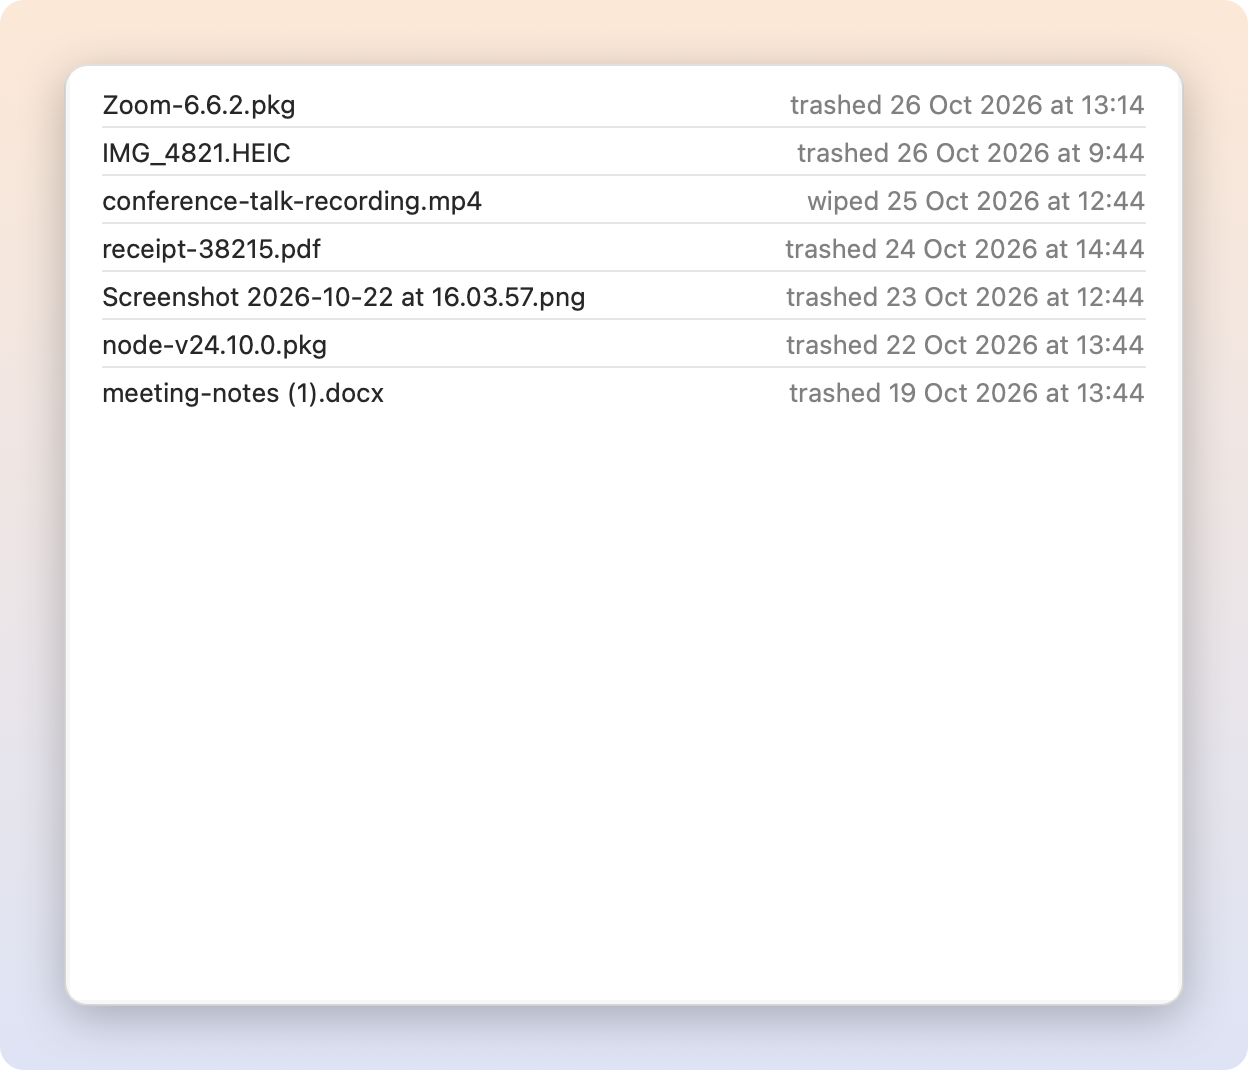
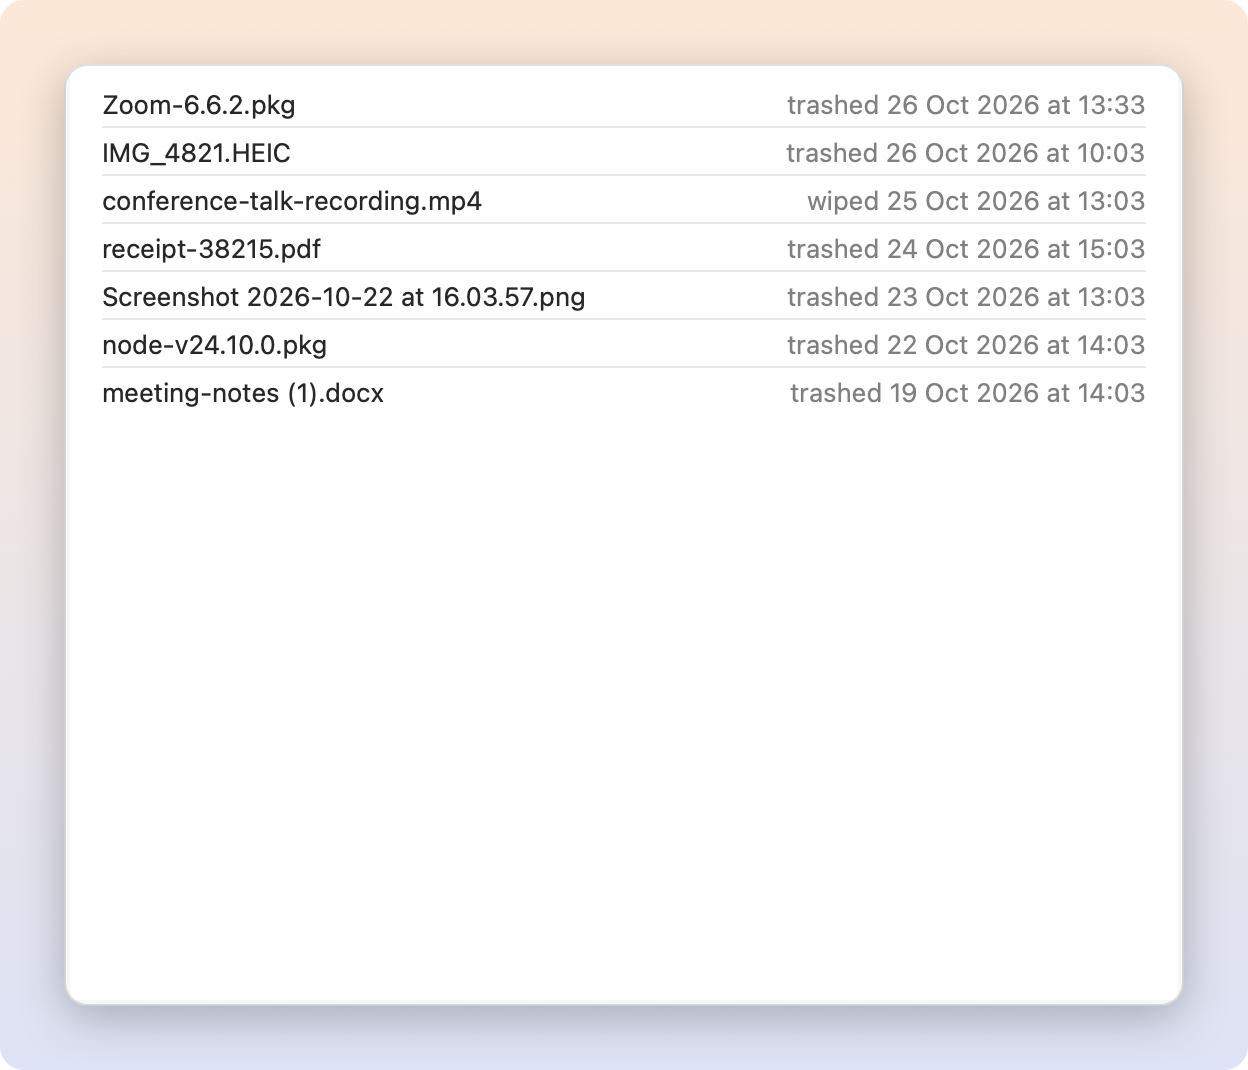
feat(toast): drop the 'now' timestamp; keep the Keep flash inside the card without clipping

Changed region(s): [[0.625, 0.185, 0.9375, 0.4009], [0.625, 0.0925, 0.9375, 0.1542]]

diff --git a/Sources/Burndown/Toast/ToastView.swift b/Sources/Burndown/Toast/ToastView.swift
@@ -11,7 +11,7 @@ final class ToastHover {
 
 /// Laid out to match a macOS alert-style notification. Measured from a Tahoe screenshot (2x):
 /// 344 x 72 pt card, ~20 pt corners, 32 pt icon 13 pt from the edge, text 13 pt (title semibold, body
-/// regular, 16 pt line pitch) starting 58 pt in, timestamp right-aligned.
+/// regular, 16 pt line pitch) starting 58 pt in.
 /// Lets a toast's icon be swapped for a real preview after it is already on screen.
 @MainActor @Observable
 final class ToastPreview {
@@ -35,16 +35,10 @@ struct ToastView: View {
             HStack(alignment: .top, spacing: 13) {
                 icon
                 VStack(alignment: .leading, spacing: 0) {
-                    HStack(alignment: .firstTextBaseline, spacing: 8) {
-                        Text(title)
-                            .font(.system(size: 13, weight: .semibold))
-                            .lineLimit(1)
-                            .truncationMode(.middle)
-                        Spacer(minLength: 0)
-                        Text("now")
-                            .font(.system(size: 13))
-                            .foregroundStyle(.secondary)
-                    }
+                    Text(title)
+                        .font(.system(size: 13, weight: .semibold))
+                        .lineLimit(1)
+                        .truncationMode(.middle)
                     Text(bodyText)
                         .font(.system(size: 13))
                         .lineLimit(2)
@@ -69,7 +63,6 @@ struct ToastView: View {
         }
         .frame(width: Self.width)
         .frame(minHeight: 60)
-        .clipShape(RoundedRectangle(cornerRadius: Self.radius))
         .glassEffect(.regular, in: .rect(cornerRadius: Self.radius))
         .overlay(alignment: .topLeading) {
             if hover.isHovered {
@@ -113,12 +106,16 @@ struct ToastView: View {
                 .font(.system(size: 13))
                 .lineLimit(1)
                 .minimumScaleFactor(0.8)
+                .scaleEffect(flash ? 1.12 : 1)
                 .frame(maxWidth: .infinity, maxHeight: .infinity)
                 .contentShape(Rectangle())
         }
         .buttonStyle(ToastActionStyle())
-        .background(flash ? Color.accentColor.opacity(0.4) : .clear)
-        .scaleEffect(flash ? 1.06 : 1)
+        // The Keep cell is the card's top-right corner, so the flash follows its curve (no clipping, which
+        // changes how the glass renders the text).
+        .background {
+            if flash { UnevenRoundedRectangle(topTrailingRadius: Self.radius).fill(Color.accentColor.opacity(0.4)) }
+        }
         .animation(.easeOut(duration: 0.12), value: flash)
         .overlay { if flash { SparkleBurst() } }
     }
